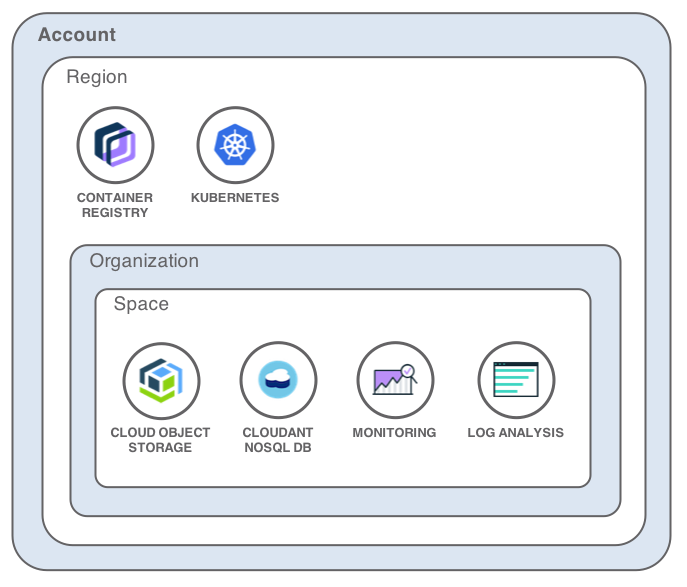
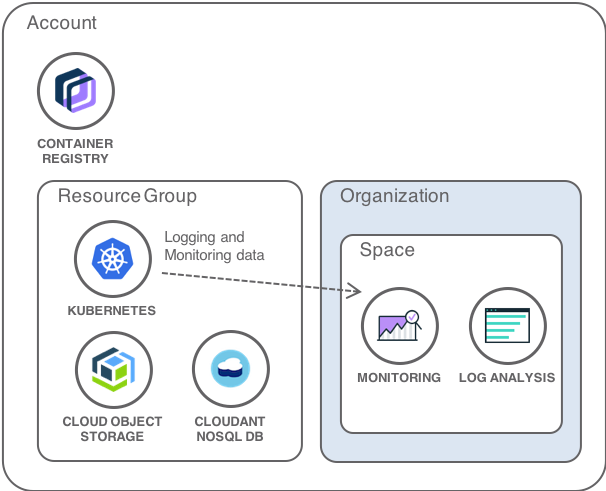
placeholder for changes

diff --git a/plan-create-update-deployments.md b/plan-create-update-deployments.md
@@ -143,6 +143,7 @@ Given the environments are rather simple and similar, you are going to use anoth
 
 Each environment requires:
 * a dedicated Cloud Foundry space
+* a dedicated resource group
 * a Kubernetes cluster
 * a database
 * a file storage
@@ -174,46 +175,39 @@ Once you can reference the organization, it is straightforward to create a space
 
 Notice how the organization name is referenced from the *global* remote state. The other properties are taken from configuration variables.
 
-Next comes the Kubernetes cluster. The {{site.data.keyword.Bluemix_notm}} provider has a Terraform resource to represent a cluster:
+Next comes the resource group.
+
+   ```sh
+   # a resource group
+   TODO
+   ```
+
+The Kubernetes cluster is created in this resource group. The {{site.data.keyword.Bluemix_notm}} provider has a Terraform resource to represent a cluster:
 
    ```sh
    # a cluster
-   resource "ibm_container_cluster" "cluster" {
-     name            = "${var.environment_name}-cluster"
-     datacenter      = "${var.cluster_datacenter}"
-     org_guid        = "${data.terraform_remote_state.global.org_guid}"
-     space_guid      = "${ibm_space.space.id}"
-     account_guid    = "${data.terraform_remote_state.global.account_guid}"
-     machine_type    = "${var.cluster_machine_type}"
-     worker_num      = "${var.cluster_worker_num}"
-     public_vlan_id  = "${var.cluster_public_vlan_id}"
-     private_vlan_id = "${var.cluster_private_vlan_id}"
-   }
+   TODO
    ```
 
 Again most of the properties will be initialized from configuration variables. You can adjust the datacenter, the number of workers, the type of workers.
 
-Cloud Foundry services can be provisioned and a Kubernetes binding (secret) can be added to retrieve the service credentials from your applications:
+IAM-enabled services like {{site.data.keyword.cos_full_notm}} and {site.data.keyword.cloudant_short_notm}} are created as resources within the group too:
 
    ```sh
-   # a database
-   resource "ibm_service_instance" "database" {
-     name       = "database"
-     space_guid = "${ibm_space.space.id}"
-     service    = "cloudantNoSQLDB"
-     plan       = "Lite"
-   }
+   # cloudant
+   TODO
 
-   # bind the database service to the cluster
-   resource "ibm_container_bind_service" "bind_database" {
-    cluster_name_id             = "${ibm_container_cluster.cluster.id}"
-    service_instance_space_guid = "${ibm_space.space.id}"
-    service_instance_name_id    = "${ibm_service_instance.database.id}"
-    namespace_id                = "default"
-    account_guid                = "${data.terraform_remote_state.global.account_guid}"
-    org_guid                    = "${data.terraform_remote_state.global.org_guid}"
-    space_guid                  = "${ibm_space.space.id}"
-   }
+   # cloud object storage
+   ```
+
+Kubernetes bindings (secrets) can be added to retrieve the service credentials from your applications:
+
+   ```sh
+   # bind the cloudant service to the cluster
+   TODO
+
+   # bind the cloud object storage service to the cluster
+   TODO
    ```
 
 ## Deploy this environment in your account

diff --git a/users-teams-applications.md b/users-teams-applications.md
@@ -102,7 +102,7 @@ Let's start by building the Development environment.
    1. [Create a Cloud Foundry space for the environment](https://console.bluemix.net/docs/account/orgs_spaces.html#spaceinfo).
    1. Create the Cloud Foundry services used by the project under this space
 1. [Create a resource group for the environment](https://console.bluemix.net/account/resource-groups).
-1. Create the services compatible with resource group like {site.data.keyword.cos_full_notm}} and {site.data.keyword.cloudant_short_notm}} in this group.
+1. Create the services compatible with resource group like {{site.data.keyword.cos_full_notm}} and {site.data.keyword.cloudant_short_notm}} in this group.
 1. [Create a new Kubernetes cluster](https://console.bluemix.net/containers-kubernetes/catalog/cluster) in {{site.data.keyword.containershort_notm}}, make sure to select the resource group created above.
 1. Select your cluster [in the console](https://console.bluemix.net/containers-kubernetes/clusters).
 1. Use *Enable Logging* to redirect the cluster logs to the Cloud Foundry space created in the previous steps. If later you want to change the space where the cluster is sending its logging data, you can use the [logging plugin for the ibmcloud command line](https://console.bluemix.net/docs/containers/cs_health.html#log_sources_update).
